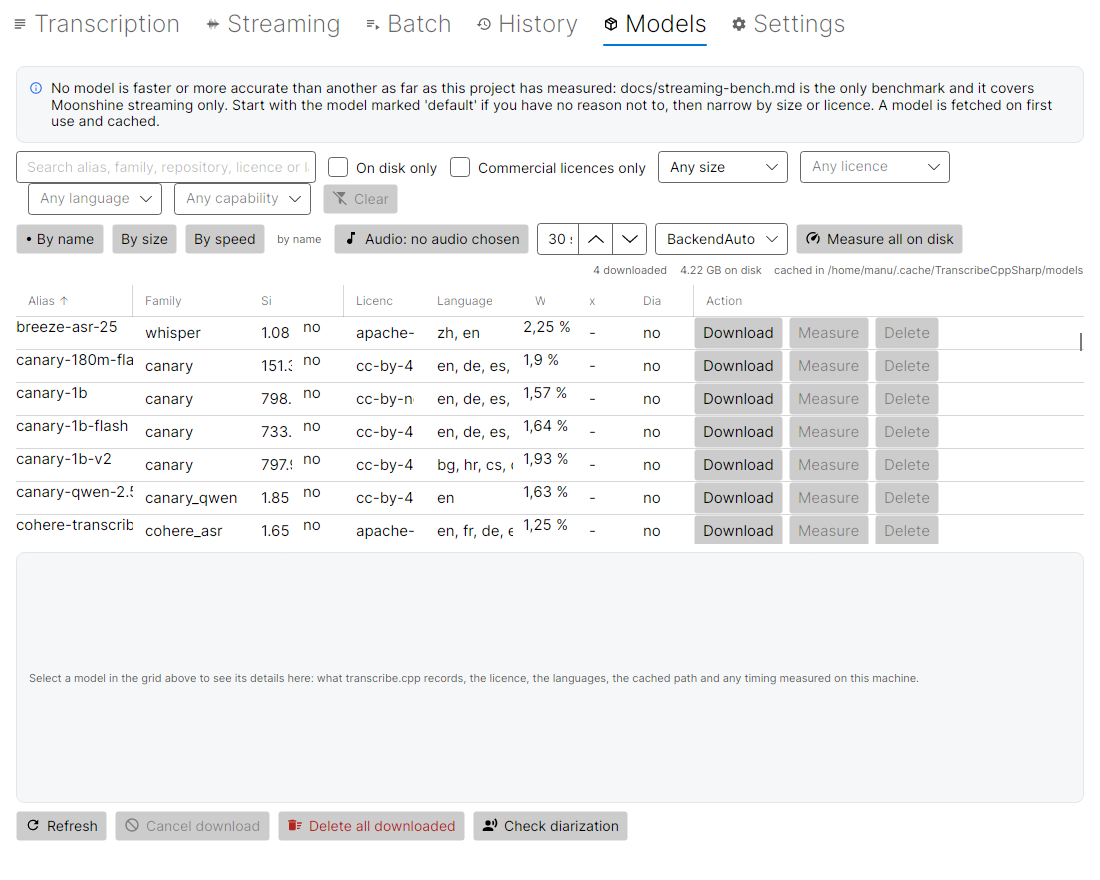
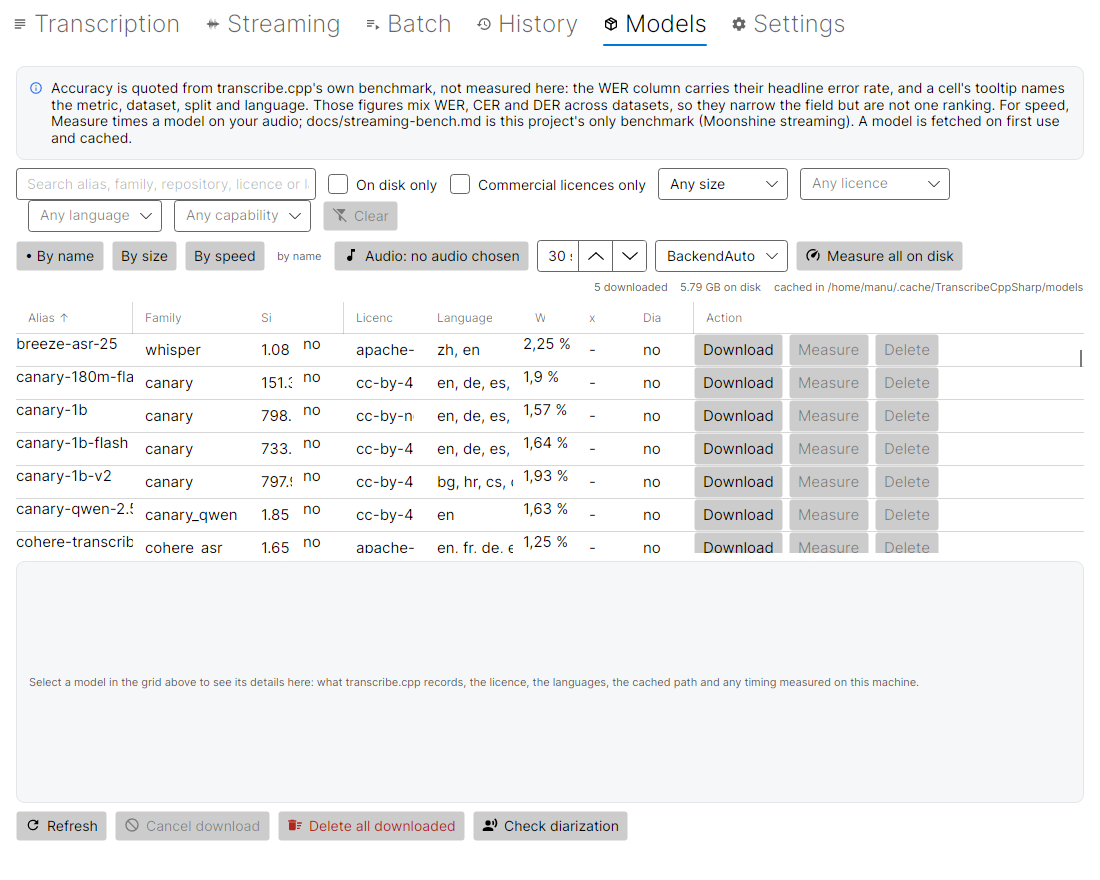
fix(ui): point at upstream's accuracy figures instead of a dead end
The Models banner and its tooltip used to lead with "this project publishes
no accuracy comparison", which left the reader with nowhere to look. They now
say where the useful figures are: the WER column quotes transcribe.cpp's own
headline error rate, and each cell's tooltip names the metric, dataset, split,
language and provenance. The figures still mix WER, CER and DER across
datasets, so the banner keeps the reason the column is deliberately not
sortable and points speed questions to Measure and the Moonshine streaming
benchmark.

The same wording is fixed in the WER column tooltip, the detail-pane accuracy
tooltip, README, docs/ui.md and the changelog. No new measurement is claimed:
the figures remain upstream's, on their benchmark, and not a measurement of
the reader's audio.

diff --git a/src/TranscribeCppSharp.UI/Models/ModelCatalogItem.cs b/src/TranscribeCppSharp.UI/Models/ModelCatalogItem.cs
@@ -279,8 +279,8 @@ public class ModelCatalogItem : System.ComponentModel.INotifyPropertyChanged
             string measured = row.MeasurementProvenance ?? "engine build not recorded upstream";
             return $"{row.Metric?.ToUpperInvariant()} {row.ErrPct:0.##} % on {headline!.Dataset} " +
                 $"{headline.Split}, {headline.Language}, {row.Quant ?? Descriptor.Quant} — " +
-                $"measured by transcribe.cpp ({measured}). Not a measurement of your audio; " +
-                "this project publishes no accuracy figure of its own.";
+                $"measured by transcribe.cpp ({measured}). Useful for narrowing the field, " +
+                "but not a measurement of your audio.";
         }
     }
 

diff --git a/docs/ui.md b/docs/ui.md
@@ -449,8 +449,8 @@ come to 58 GiB, which is why the grid starts empty of weights and shows what is 
   recorded upstream*, which several rows honestly carry. The header says **WER** because
   that is the majority of it, but 67 of the 74 figures are WER, six are CER and one is a
   DER, so read the tooltip rather than the column name when it matters. **It is not a
-  measurement of your audio, and this project publishes no accuracy figure of its own**;
-  the number is theirs.
+  measurement of your audio, but it is a useful screen from the people who built the
+  engine**; the number is theirs.
 - **Measure** times a model over an excerpt of audio *you* pick, because a timing is only
   meaningful for the audio it was taken on. One pass is discarded as warm-up and three are
   timed; the best is kept, since contention only ever makes a run slower. The backend is
@@ -460,10 +460,15 @@ come to 58 GiB, which is why the grid starts empty of weights and shows what is 
 `Sort by speed` orders the grid by what you measured here, and models you have not measured
 cannot be placed in a speed order, so they stay at the bottom in name order.
 
-**This app does not rank models by accuracy, and the WER column is not a ranking.** This project publishes no accuracy comparison
-between them, so there is none to show. `Measure` tells you how fast a model ran on your
-audio and nothing else. [Streaming benchmarks](streaming-bench.md) is the only benchmark the
-project has, and it covers Moonshine streaming only.
+**Accuracy figures are upstream's, and they are worth reading.** The WER column and the
+detail pane quote transcribe.cpp's headline error rate for each model, on their benchmark.
+Hover a cell for the metric, dataset, split, language and provenance. The column is not
+sortable because 67 of the 74 figures are WER, six are CER and one is a DER, over two
+datasets and eight languages — an order over them would rank numbers that do not measure the
+same thing. Those figures are useful for narrowing the field before you download; they are
+not a measurement of your audio. `Measure` answers speed on your audio, and
+[Streaming benchmarks](streaming-bench.md) is this project's only benchmark (Moonshine
+streaming).
 
 ### Settings
 
@@ -581,11 +586,11 @@ or class changes what the app does, and none carries a claim about it.
   Transcription tab, which runs offline.
 - **It does not time models for you against published numbers.** `Measure` runs on your
   machine, over your audio.
-- **No accuracy comparison is ours.** The grid quotes upstream's error rate per model, which
-  is their measurement on their benchmark and not a comparison this project made — let alone
-  one you could sort, since those figures come from three metrics and two datasets. What
-  this project's own judgement adds is filtering by licence, family, size, language and
-  what is on disk.
+- **It does not invent an accuracy comparison of its own.** Where a figure exists, the grid
+  quotes upstream's error rate per model — their measurement on their benchmark, with metric,
+  dataset and language in the tooltip — which is useful for narrowing the field but is not one
+  sortable ranking. What this project's own judgement adds is filtering by licence, family,
+  size, language, capability and what is on disk.
 
 ## How it is tested
 

diff --git a/README.md b/README.md
@@ -181,10 +181,13 @@ Three things worth knowing before you rely on it:
   only way the native library answers — the manifest declares no capabilities — so a model
   that is not on disk keeps every option visible and the app says so underneath the picker.
   Options are hidden only once a loaded model has said it lacks the feature.
-- **It does not rank models by accuracy.** This project publishes no accuracy comparison
-  between them, so the app does not pretend to have one; `Measure` times a model, and speed
-  is all it tells you. See [Streaming benchmarks](docs/streaming-bench.md) for the one
-  benchmark the project does have, and what it does not cover.
+- **It quotes upstream's accuracy figures instead of inventing its own.** The `WER` column
+  and the model detail pane carry transcribe.cpp's own headline error rate, with the metric,
+  dataset, split and language in the tooltip — useful for narrowing the field, but not one
+  sortable ranking, because the figures mix WER, CER and DER across datasets. `Measure` times
+  a model on your audio and reports speed only, and
+  [Streaming benchmarks](docs/streaming-bench.md) is the one benchmark this project runs
+  (Moonshine streaming).
 
 The tab that carries the library's limits is Streaming: the app calls the same
 `StreamSession` the CLI and the library do, so the native abort documented in

diff --git a/CHANGELOG.md b/CHANGELOG.md
@@ -22,6 +22,14 @@ rather than what the last Settings refresh said.
 The `ModelGridIndicatorTests` assertion on the WER tooltip is case-insensitive again after the
 wording was lowercased.
 
+### UI: point at the accuracy figures that exist instead of saying there are none
+
+The Models banner and the grid tooltips used to lead with what this project has not measured.
+They now say where the useful numbers are: the **WER** column quotes transcribe.cpp's own
+headline error rate, and each cell's tooltip names the metric, dataset, split and language.
+The figures still mix WER, CER and DER across datasets, so they narrow the field but are not
+one ranking, and `Measure` reports speed on your audio only. No new measurement is claimed.
+
 ### UI: a one-window memory probe before committing to a long run
 
 The Transcription tab offers **Test memory**: it runs at most one window of the selected file
